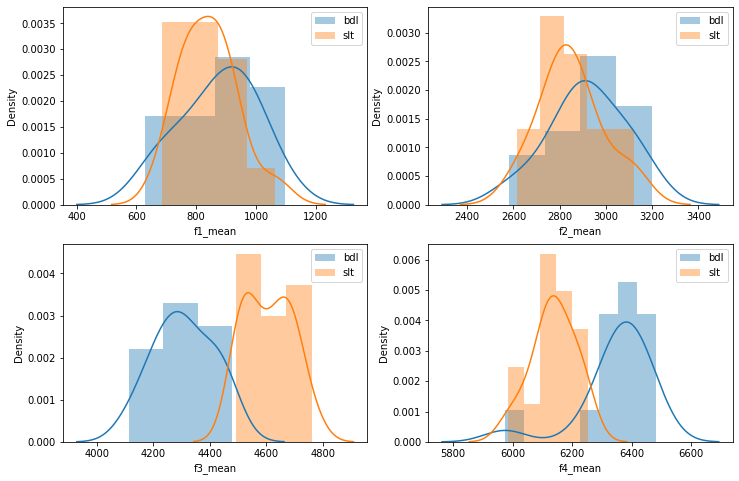
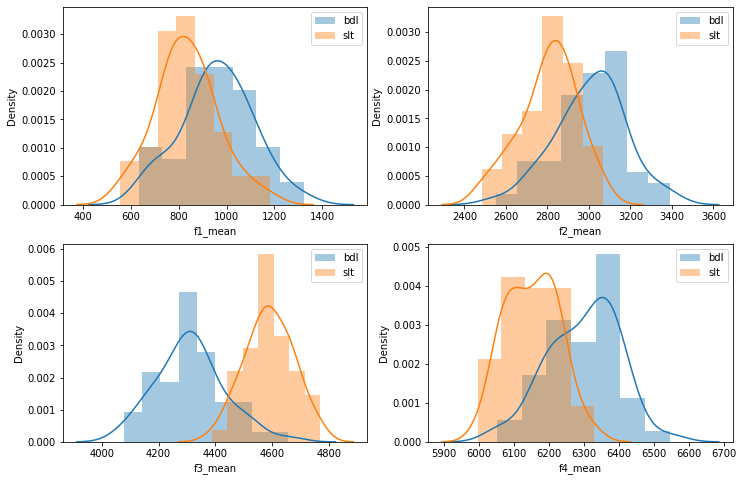
energy + threshold

diff --git a/rapport/report.tex b/rapport/report.tex
@@ -68,6 +68,8 @@ and see how advantaging is machine learning compared to a simple rule-based mode
 In the \autoref{energy}, we plot the sample and its energy. We observe that with a threshold of 5,
 we are able to classify the voiced and unvoiced frames.
 Then we use these voiced frames to extract all the features we need.
+For instance, we can see at 1.6 sec in the signal that for the name Philip only the two i are
+considered voiced. 
 
 
 \begin{figure}[H]
@@ -176,8 +178,8 @@ discriminating feature.
 \end{figure}
 
 For the formants we use the same method as before by calculating the mean of the frames for
-each formant. We can see on \autoref{formants_visu} that more interesting formants are the two
-last ones. For the formants 1 and 2, they look almost similar for the two speakers.
+each formant. We can see on \autoref{formants_visu} that more interesting formant are the two
+last ones.
 
 \subsection{The MFCC}
 

diff --git a/utils.py b/utils.py
@@ -727,7 +727,3 @@ def test_machine_learning():
     print('Random forest')
     rforest = RandomForestClassifier(random_state=42)
     evaluation(rforest, X_train, y_train, X_test, y_test)
-
-
-if __name__ == '__main__':
-    test_rule_model()
